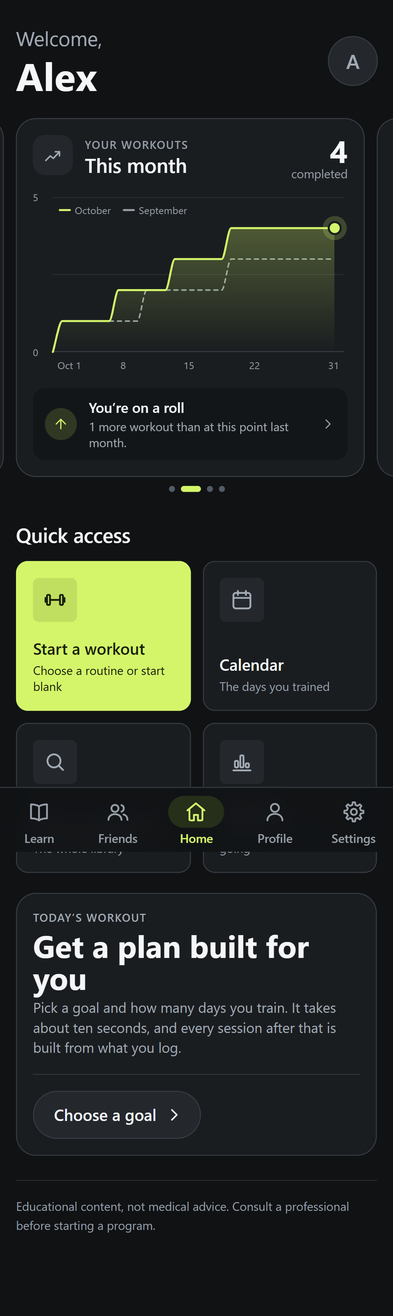
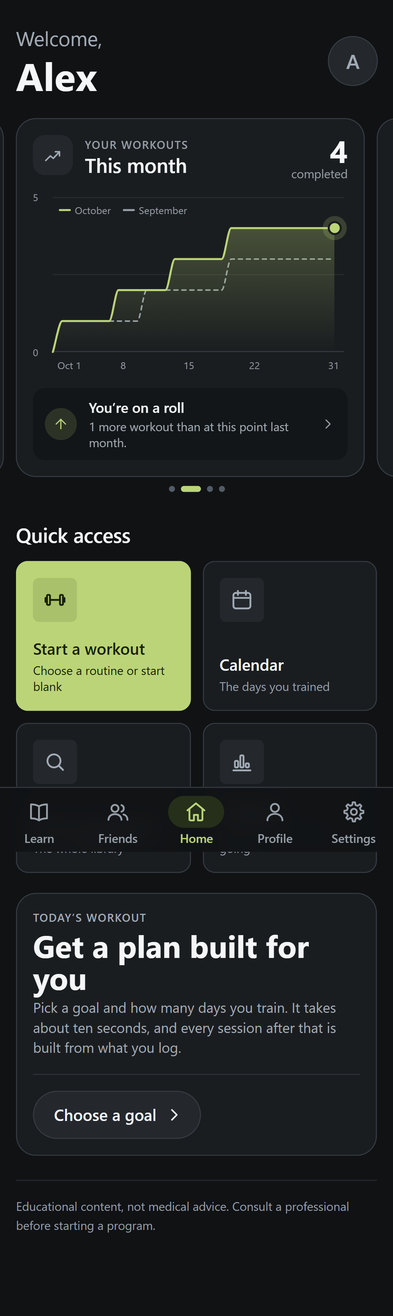
Soften the dark-mode Volt accent (#206)
* fix(ui): soften the dark-mode Volt accent

* test(e2e): finish touch scrolling and trim palette waits

* test(e2e): settle routine paging before viewport changes

diff --git a/e2e/tests/graphite-volt.spec.ts b/e2e/tests/graphite-volt.spec.ts
@@ -26,6 +26,21 @@ async function expectFits(page: Page) {
   await expect(page.locator('.stat-glow')).toHaveCount(0);
 }
 
+// Palette checks need an unobscured screen, not each banner's auto-dismiss timer.
+// Use the supported upward flick; achievement delivery has its own browser tests.
+async function dismissAchievementBanner(page: Page) {
+  const banner = page.locator('[data-achievement-banner]');
+  await expect(banner).toBeVisible();
+  const box = await banner.getByRole('button').boundingBox();
+  if (box === null) throw new Error('Achievement banner has no visible bounds');
+  const x = box.x + box.width / 2;
+  await page.mouse.move(x, box.y + box.height - 8);
+  await page.mouse.down();
+  await page.mouse.move(x, box.y + 8, { steps: 3 });
+  await page.mouse.up();
+  await expect(banner).toBeHidden();
+}
+
 for (const theme of ['dark', 'light'] as const) {
   for (const width of [320, 393, 1280]) {
     test(`Graphite + Volt: ${theme}, ${String(width)}px`, async ({ page, context }, info) => {
@@ -89,8 +104,7 @@ for (const theme of ['dark', 'light'] as const) {
         'text-on-accent',
       );
       await expectFits(page);
-      await expect(page.locator('[data-achievement-banner]')).toBeVisible();
-      await expect(page.locator('[data-achievement-banner]')).toBeHidden();
+      await dismissAchievementBanner(page);
       await page
         .locator('[aria-roledescription="carousel"][aria-label="This month"]')
         .evaluate((track) => {
@@ -111,8 +125,7 @@ for (const theme of ['dark', 'light'] as const) {
       // The workout path still works, including completed-set feedback offline.
       await startWith(page, 'Barbell Bench Press');
       await logSet(page, 1, '55', '8');
-      await expect(page.locator('[data-achievement-banner]')).toBeVisible();
-      await expect(page.locator('[data-achievement-banner]')).toBeHidden();
+      await dismissAchievementBanner(page);
       const finish = page.getByRole('button', { name: 'Finish workout', exact: true });
       await expectToken(finish, 'background-color', 'accent');
       await expectToken(finish, 'color', 'text-on-accent');
@@ -129,7 +142,7 @@ for (const theme of ['dark', 'light'] as const) {
       await expect(page.getByLabel('Search')).toBeVisible();
       await expect(page.getByRole('button', { name: /^Barbell Bench Press/ })).toBeVisible();
       await expectFits(page);
-      await page.screenshot({ path: info.outputPath('browse.png'), fullPage: true });
+      await page.screenshot({ path: info.outputPath('browse.png') });
       await page.goto('/#/workout');
       await context.setOffline(true);
       await finish.click();

diff --git a/e2e/tests/recap-cards.spec.ts b/e2e/tests/recap-cards.spec.ts
@@ -356,6 +356,7 @@ test('long muscle percentages scroll independently by keyboard and touch', async
       const body = page.getByRole('img', { name: /^Muscles worked this session:/ });
       const bodyBefore = await body.boundingBox();
       await shares.focus();
+      await expect(shares).toBeFocused();
       await shares.press('Home');
       await expect.poll(() => shares.evaluate((el) => el.scrollTop)).toBe(0);
       await page.screenshot({ path: info.outputPath(`muscle-list-${width}-${theme}-top.png`) });
@@ -383,10 +384,22 @@ test('long muscle percentages scroll independently by keyboard and touch', async
           });
           await page.waitForTimeout(16);
         }
+        // Finger release starts momentum; wait for the browser's scrollend before
+        // switching to keyboard input or resizing to the next viewport.
+        await shares.evaluate((el) => {
+          el.setAttribute('data-touch-scrolling', 'true');
+          el.addEventListener('scrollend', () => el.removeAttribute('data-touch-scrolling'), {
+            once: true,
+          });
+        });
         await cdp.send('Input.dispatchTouchEvent', { type: 'touchEnd', touchPoints: [] });
         await cdp.detach();
         await expect.poll(() => shares.evaluate((el) => el.scrollTop)).toBeGreaterThan(0);
+        await expect(shares).not.toHaveAttribute('data-touch-scrolling', 'true');
         await shares.press('End');
+        await expect
+          .poll(() => shares.evaluate((el) => el.scrollHeight - el.clientHeight - el.scrollTop))
+          .toBeLessThanOrEqual(1);
       }
       await expect(shares.getByRole('listitem').last()).toBeInViewport({ ratio: 0.99 });
       expect(await body.boundingBox()).toEqual(bodyBefore);

diff --git a/e2e/tests/workout-start.spec.ts b/e2e/tests/workout-start.spec.ts
@@ -235,8 +235,19 @@ test('three routines need no dots; additional routines make swipeable pages and 
     });
     await page.waitForTimeout(16);
   }
+  const routineTrack = chooser(page)
+    .getByRole('group', { name: 'Saved routines', exact: true })
+    .locator(':scope > div')
+    .first();
+  await routineTrack.evaluate((el) => {
+    el.setAttribute('data-touch-scrolling', 'true');
+    el.addEventListener('scrollend', () => el.removeAttribute('data-touch-scrolling'), {
+      once: true,
+    });
+  });
   await cdp.send('Input.dispatchTouchEvent', { type: 'touchEnd', touchPoints: [] });
   await cdp.detach();
+  await expect(routineTrack).not.toHaveAttribute('data-touch-scrolling', 'true');
   await expect(dot(2)).toHaveAttribute('aria-pressed', 'true');
   await expect(chooser(page).getByRole('listitem')).toHaveText([
     /Routine 4/,
@@ -249,6 +260,11 @@ test('three routines need no dots; additional routines make swipeable pages and 
   await expect(dot(3)).toBeFocused();
   await expect(dot(3)).toHaveAttribute('aria-pressed', 'true');
   await expect(chooser(page).getByRole('listitem')).toHaveCount(1);
+  // The selected dot changes halfway through smooth scrolling. Resize only
+  // once the keyboard's destination has actually arrived at the scrollport.
+  await expect
+    .poll(() => routineTrack.evaluate((el) => Math.abs(el.scrollLeft - el.clientWidth * 2)))
+    .toBeLessThan(1);
   await page.setViewportSize({ width: 1280, height: 851 });
   await expect(chooser(page).getByRole('button', { name: 'Start Routine 7' })).toBeInViewport();
   await page.keyboard.press('Home');

diff --git a/packages/ui/src/tokens.css b/packages/ui/src/tokens.css
@@ -41,9 +41,9 @@
   --text-danger: #f87171;
 
   /* --- Accent --- */
-  --accent: #d4f56a; /* primary actions, active states */
-  --accent-hover: #dff889;
-  --accent-pressed: #bedc59;
+  --accent: #bbd477; /* primary actions, active states */
+  --accent-hover: #c8df8b;
+  --accent-pressed: #a7bf64;
   --accent-subtle: #252f19; /* accent-tinted backgrounds */
 
   /* --- Status --- */

diff --git a/packages/ui/src/tokens.ts b/packages/ui/src/tokens.ts
@@ -25,9 +25,9 @@ export const colorTokens = {
   'text-on-danger': '#f4f6f8',
   'text-danger': '#f87171',
 
-  accent: '#d4f56a',
-  'accent-hover': '#dff889',
-  'accent-pressed': '#bedc59',
+  accent: '#bbd477',
+  'accent-hover': '#c8df8b',
+  'accent-pressed': '#a7bf64',
   'accent-subtle': '#252f19',
 
   success: '#6fa86f',

diff --git a/FIXES.md b/FIXES.md
@@ -1,3 +1,28 @@
+# Browser CI — finish touch scrolling and avoid repeated banner timers
+
+PR #206's browser run 315 reached the existing twelve-minute suite deadline
+with 161 scenarios passed, one recap scenario passed on retry and six unfinished.
+All seven palette scenarios passed. The recap's first attempt left its focused
+muscle list at scrollTop 105 after Home, on the phone viewport following a touch
+swipe. A synthetic swipe's momentum can continue after touchEnd and interfere
+with the next keyboard or resize step.
+
+Wait for the list's native scrollend event after finger release, then verify End
+reaches the bottom before continuing. Keep native keyboard and touch input,
+focus checks, stationary body assertions, both themes and every viewport.
+
+The full local run exposed the same input sequencing in the routine chooser:
+its swipe could still be settling when End started a smooth scroll, and a
+selected dot does not mean the destination has completely arrived. Wait for
+touch scrollend and the keyboard destination's actual scroll offset before
+resizing, retaining page-preservation and offline-start assertions.
+
+Palette screenshots now use the supported swipe-to-dismiss gesture instead of
+waiting through two achievement banner timers per viewport. Capture the exercise
+browser's viewport rather than its entire catalogue. Achievement auto-dismiss
+coverage remains in its dedicated suite. Keep the twelve-minute deadline, two
+workers, retries and all scenarios unchanged.
+
 # Resolved — workout-start unit tests required local Supabase configuration
 
 PR #203's new start-orchestration suite imported the routine module, which also

diff --git a/DECISIONS.md b/DECISIONS.md
@@ -9351,3 +9351,14 @@ also receives valid colour arguments on Windows. Test at 320, 393 and 1280px in
 both themes with the fake backend, including logging, offline finish, recap,
 selection/focus states and persisted theme switching. No database migration,
 PowerSync deployment or production data access is needed.
+
+
+### Dark accent refinement (2026-10-30)
+
+The first Volt treatment felt too intense on dark surfaces. Soften only the dark
+UI action states: accent `#d4f56a` to `#bbd477`, hover `#dff889` to `#c8df8b`,
+and pressed `#bedc59` to `#a7bf64`. This lowers brightness and saturation while
+retaining clear contrast for action ink, links, selected controls and focus.
+Light-mode colours, specialised anatomy colours, launch artwork, semantic data
+colours and exercise-demo media surfaces stay unchanged. Keep CSS/TypeScript
+parity and the existing AA/AAA contrast guarantees.
